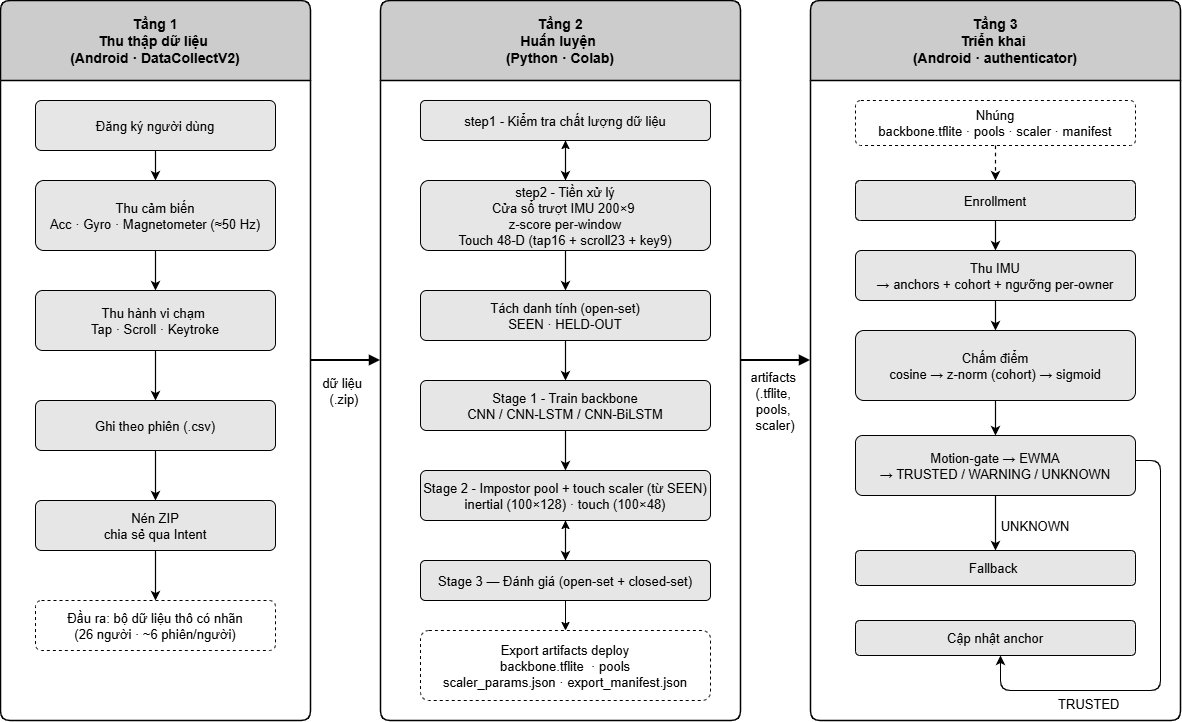
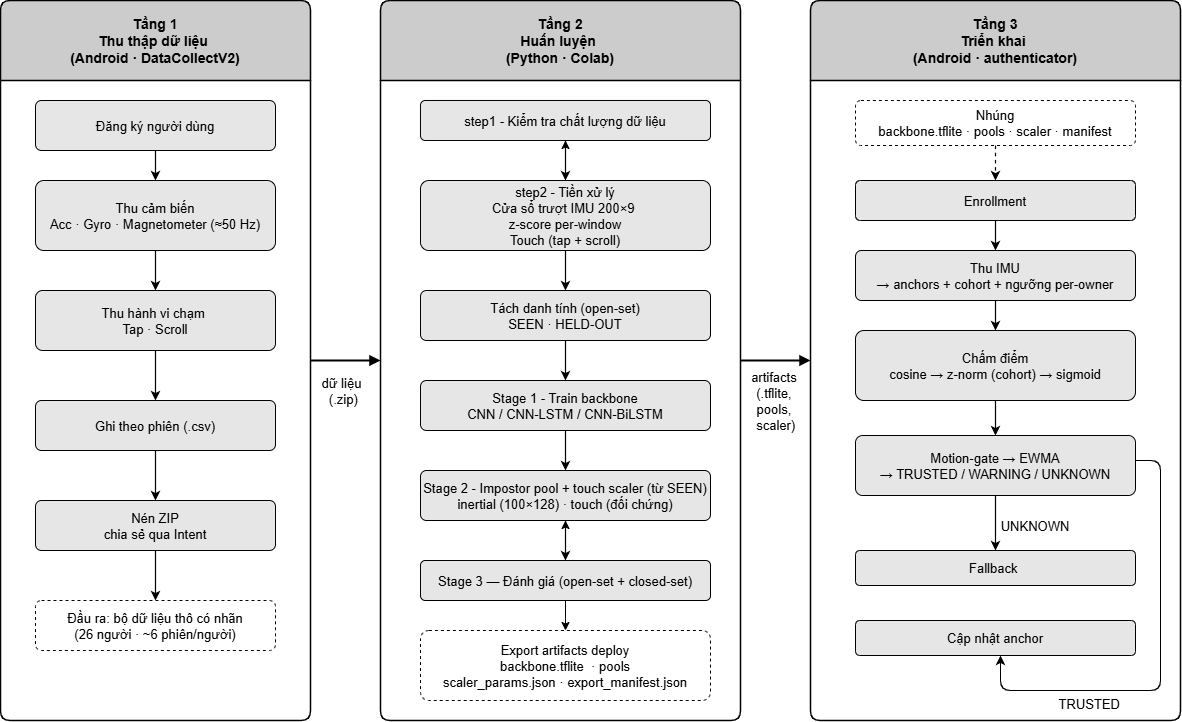
edit chapter 1

diff --git a/docs/report/DATN/Chuong/0_3_Tom_tat_noi_dung.tex b/docs/report/DATN/Chuong/0_3_Tom_tat_noi_dung.tex
@@ -4,11 +4,11 @@
     \Large{\textbf{TÓM TẮT NỘI DUNG ĐỒ ÁN}}\\
 \end{center}
 \vspace{1cm}
-Điện thoại thông minh hiện được bảo vệ chủ yếu bằng xác thực một lần lúc mở khóa như mã PIN, vân tay hay khuôn mặt, nên sau khi mở khóa, người khác vẫn có thể dùng tiếp mà không bị kiểm tra lại. Xác thực liên tục dựa trên sinh trắc học hành vi (behavioral biometrics) khắc phục điều này bằng cách nhận diện người dùng trong suốt quá trình sử dụng. Các hệ thống đã có như IntelliAuth, B2auth, M2Auth hay MultiLock khai thác cảm biến quán tính hoặc thao tác chạm màn hình, nhưng còn hạn chế trong việc thích ứng với khác biệt phần cứng giữa các thiết bị.
+Điện thoại thông minh hiện được bảo vệ chủ yếu bằng xác thực một lần lúc mở khóa như mã PIN, vân tay hay khuôn mặt nên sau khi mở khóa, người khác vẫn có thể dùng tiếp mà không bị kiểm tra lại. Xác thực liên tục dựa trên sinh trắc học hành vi (behavioral biometrics) khắc phục điều này bằng cách nhận diện người dùng trong suốt quá trình sử dụng. Các hệ thống đã có như IntelliAuth, B2auth, M2Auth hay MultiLock khai thác cảm biến quán tính hoặc thao tác chạm màn hình, nhưng còn hạn chế trong việc thích ứng với khác biệt phần cứng giữa các thiết bị.
 
 Đồ án đi theo hướng đa phương thức, kết hợp cảm biến quán tính với thao tác chạm màn hình; dữ liệu được thu kèm nhãn hoạt động và đánh giá theo hai cấu hình ngữ cảnh là chỉ đi bộ và gộp cả ba hoạt động: đi bộ. đứng và ngồi.
 
-Hệ thống là một quy trình hoàn chỉnh từ thu thập dữ liệu đến triển khai trên thiết bị. Nhánh chính dùng một mạng học sâu biến mỗi đoạn tín hiệu quán tính thành vector đặc trưng (embedding); chủ máy được đăng ký bằng vài vector đại diện (anchor) và xác thực bằng độ tương đồng cosine theo kịch bản nhận dạng tập mở, với ngưỡng hiệu chuẩn riêng cho từng chủ máy và hồ sơ mẫu được cập nhật dần theo thời gian. Điểm tin cậy được làm mịn theo thời gian; khi nghi ngờ người lạ, hệ thống yêu cầu xác thực dự phòng bằng cử chỉ lắc điện thoại. Toàn bộ được hiện thực trên hai ứng dụng Android cùng quy trình huấn luyện bằng Python và TensorFlow.
+Hệ thống là một quy trình hoàn chỉnh từ thu thập dữ liệu đến triển khai trên thiết bị. Nhánh chính dùng một mạng học sâu biến mỗi đoạn tín hiệu quán tính thành vector đặc trưng (embedding); chủ máy được đăng ký bằng vài vector đại diện (anchor) và xác thực bằng độ tương đồng cosine theo kịch bản nhận dạng tập mở với ngưỡng hiệu chuẩn riêng cho từng chủ máy và hồ sơ mẫu được cập nhật dần theo thời gian. Điểm tin cậy được làm mịn theo thời gian; khi nghi ngờ người lạ, hệ thống yêu cầu xác thực dự phòng bằng cử chỉ lắc điện thoại. Toàn bộ được hiện thực trên hai ứng dụng Android cùng quy trình huấn luyện bằng Python và TensorFlow.
 
 Hệ thống được đánh giá trên bộ dữ liệu thực tế gồm 26 người với 136.746 cửa sổ tín hiệu quán tính và 34.836 sự kiện chạm. Đồ án so sánh ba kiến trúc CNN 1D, CNN-LSTM và CNN-BiLSTM, đồng thời khảo sát có hệ thống các cách chuyển vector đặc trưng thành điểm tin cậy. Mạng CNN 1D chỉ dùng cảm biến quán tính được chọn để triển khai; với cách chấm điểm chuẩn hóa theo nhóm người nền (cohort), cấu hình này đạt tỉ lệ lỗi cân bằng khoảng 0,3\% với người đã biết và 1,4\% với người lạ qua kiểm thử chéo leave-users-out, tốt hơn rõ rệt cách chấm điểm cơ sở mà không cần huấn luyện lại mô hình. Việc bổ sung nhánh chạm màn hình bằng dung hợp tuyến tính không cải thiện hiệu năng nên bản triển khai cuối chỉ dùng nhánh quán tính.
 \begin{flushright}

diff --git a/docs/report/DATN/Chuong/0_2_Loi_cam_on.tex b/docs/report/DATN/Chuong/0_2_Loi_cam_on.tex
@@ -5,5 +5,5 @@
     \Large{\textbf{LỜI CẢM ƠN}}\\
 \end{center}
 \vspace{1cm}
-Em xin bày tỏ lòng biết ơn sâu sắc tới thầy Nguyễn Linh Giang đã tận tình hướng dẫn, định hướng nghiên cứu và đồng hành cùng em trong suốt quá trình thực hiện đồ án tốt nghiệp. Sự chỉ bảo kịp thời và những góp ý chuyên môn của thầy là nền tảng quan trọng giúp em hoàn thành đồ án này. Em cũng xin gửi lời cảm ơn tới các thầy cô trong Trường Công nghệ Thông tin và Truyền thông, Đại học Bách Khoa Hà Nội đã trang bị cho em những kiến thức và kỹ năng cần thiết trong suốt quá trình học tập. Đặc biệt, em trân trọng cảm ơn 26 tình nguyện viên đã dành thời gian tham gia thu thập dữ liệu thực nghiệm - sự đóng góp của các bạn là điều kiện thiết yếu để đồ án có thể được thực hiện và đánh giá một cách toàn diện. Cuối cùng, em xin gửi lời cảm ơn chân thành nhất tới gia đình đã luôn là chỗ dựa vững chắc, động viên em trong những lúc khó khăn nhất.
+Em xin bày tỏ lòng biết ơn sâu sắc tới thầy Nguyễn Linh Giang đã tận tình hướng dẫn, định hướng nghiên cứu và đồng hành cùng em trong suốt quá trình thực hiện đồ án tốt nghiệp. Sự chỉ bảo kịp thời và những góp ý chuyên môn của thầy là nền tảng quan trọng giúp em hoàn thành đồ án này. Em cũng xin gửi lời cảm ơn tới các thầy cô trong Trường Công nghệ Thông tin và Truyền thông, Đại học Bách Khoa Hà Nội đã trang bị cho em những kiến thức và kỹ năng cần thiết trong suốt quá trình học tập. Đặc biệt, em trân trọng cảm ơn 26 tình nguyện viên đã dành thời gian tham gia thu thập dữ liệu thực nghiệm, sự đóng góp của các bạn là điều kiện thiết yếu để đồ án có thể được thực hiện và đánh giá một cách toàn diện. Cuối cùng, em xin gửi lời cảm ơn chân thành nhất tới gia đình đã luôn là chỗ dựa vững chắc, động viên em trong những lúc khó khăn nhất.
 \end{document}
